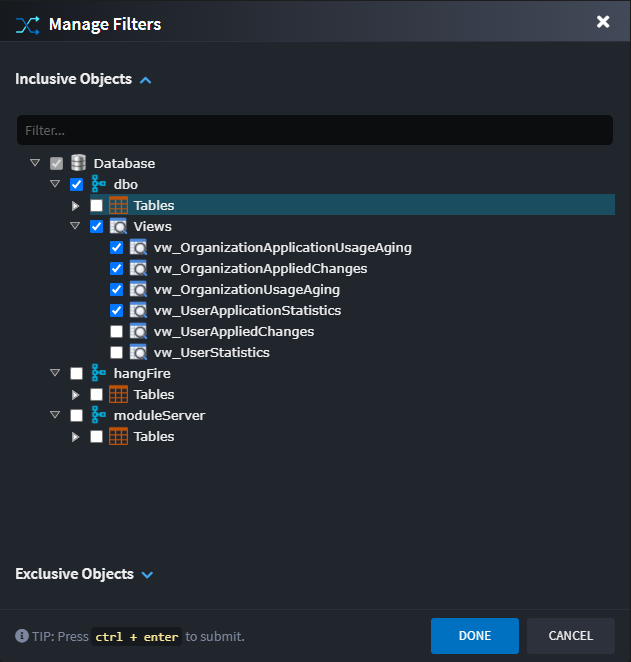
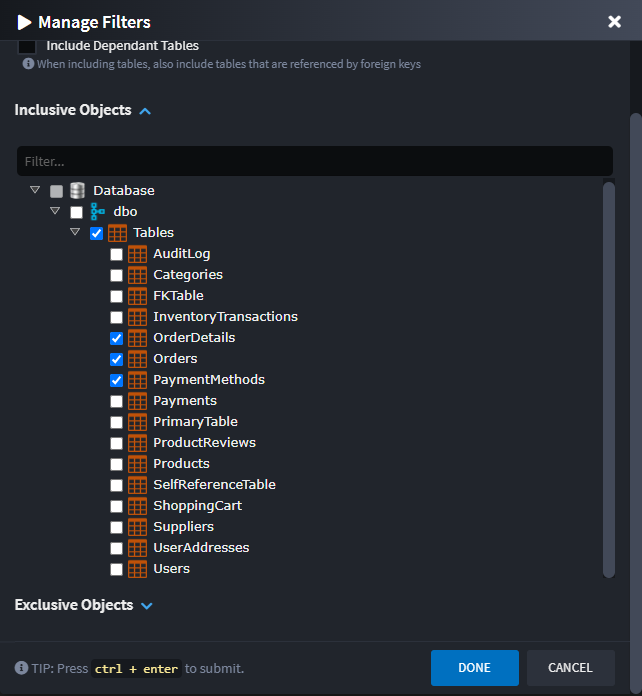
Revamp SQL Importer to Relational Database Importer with multi-database support and enhanced user experience. Update documentation links and add new images for improved clarity.

diff --git a/articles/whats-new/2025/08/index.md b/articles/whats-new/2025/08/index.md
@@ -3,7 +3,7 @@
 Welcome to the August 2025 edition of highlights of What's New in Intent Architect. Here's a roundup of the latest updates and improvements.
 
 - Highlights
-  - **[SQL Importer GUI and capabilities update](#sql-importer-gui-and-capabilities-update)** – Completely redesigned import dialog with enhanced filtering, better organization, and improved user experience.
+  - **[Relational Database Importer Upgrade](#relational-database-importer-upgrade)** – Complete transformation of the database importer with multi-database support, redesigned interface, and enhanced filtering capabilities.
   - **[Event Domain modeling in Azure Event Grid](#event-domain-modeling-in-azure-event-grid)** – Model and manage Event Domains for better organization of Event Grid topics within Intent Architect.
 
 - More updates
@@ -11,19 +11,21 @@ Welcome to the August 2025 edition of highlights of What's New in Intent Archite
 
 ## Update details
 
-### SQL Importer GUI and capabilities update
+### Relational Database Importer Upgrade
 
-The SQL Server Importer has received a comprehensive revamp with a completely redesigned import dialog that provides a significantly improved user experience and enhanced capabilities due to the Dynamic Form improvements made as part of `Intent Architect 4.5.4`.
+The database importer has undergone a complete transformation with the release of `Intent.Rdbms.Importer` (previously known as `Intent.SqlServerImporter`). This comprehensive revamp delivers a dramatically improved user experience and powerful new capabilities, enhanced by the Dynamic Form improvements introduced in `Intent Architect 4.5.4`, as well as the new ability to import from PostgreSQL.
 
 ![Database Import dialog](images/db-import-dialog.png)
 
 #### Key Improvements
 
+**Multi-Database Support**: The module now supports both **SQL Server** and **PostgreSQL** databases, enabling seamless reverse engineering of domain models from either database type. The new architecture makes it simple to add support for additional database types in the future.
+
 **Better Connection Management**: Built-in connection testing ensures your connection string is valid before proceeding with the import process.
 
 **Organized Interface**: The dialog is now organized into collapsible sections for better navigation:
 - **Connection & Settings Section** - Connection string management with test connection functionality
-- **Import Options Section** - Entity naming conventions and stereotype settings
+- **Import Options Section** - Entity naming conventions and stereotype settings  
 - **Filtering Section** - Advanced filtering capabilities with visual management tools
 
 **Enhanced Filtering**: New visual "Manage Filters" dialog allows you to interactively select which database objects (tables, views, stored procedures) to include or exclude through an intuitive hierarchical tree view.
@@ -32,15 +34,19 @@ The SQL Server Importer has received a comprehensive revamp with a completely re
 
 ![Filtering Database Inclusive Selection](images/db-import-dialog-inclusive-object-filtering.png)
 
+#### Future Database Support
+
+The restructured module architecture enables simple addition of new database providers. If you need support for a specific database type not currently available, please reach out to us through our [GitHub Support repository](https://github.com/IntentArchitect/Support) to request it.
+
 > [!NOTE]
 > 
-> The revamped importer maintains full backward compatibility while providing a more intuitive and powerful experience for reverse engineering domain models from SQL Server databases.
+> The revamped importer maintains full backward compatibility while providing a more intuitive and powerful experience for reverse engineering domain models from relational databases.
 
-To learn more about this, read the [documentation](https://docs.intentarchitect.com/articles/modules-dotnet/intent-sqlserverimporter/intent-sqlserverimporter.html).
+To learn more about this, read the [documentation](https://docs.intentarchitect.com/articles/modules-importers/intent-rdbms-importer/intent-rdbms-importer.html).
 
 Available from:
 
-- Intent.SqlServerImporter 1.2.0
+- Intent.Rdbms.Importer 1.0.0
 
 ### Event Domain modeling in Azure Event Grid
 
